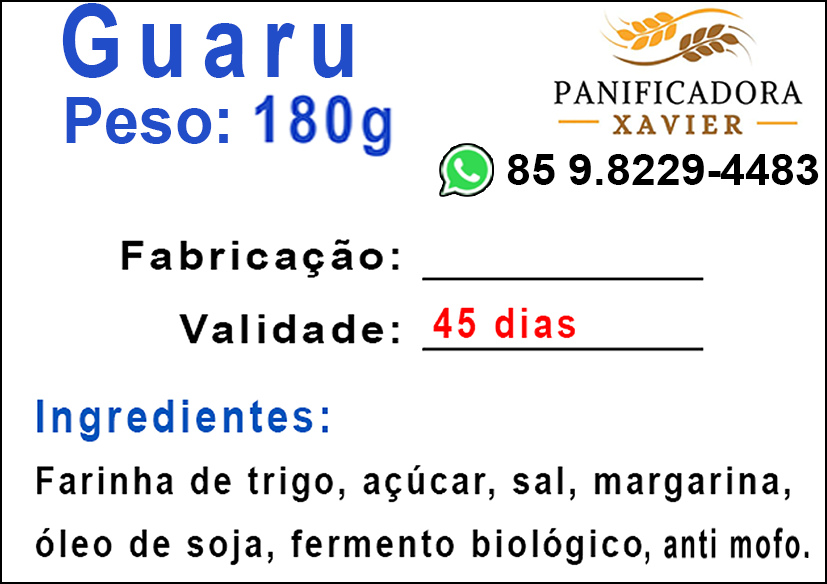
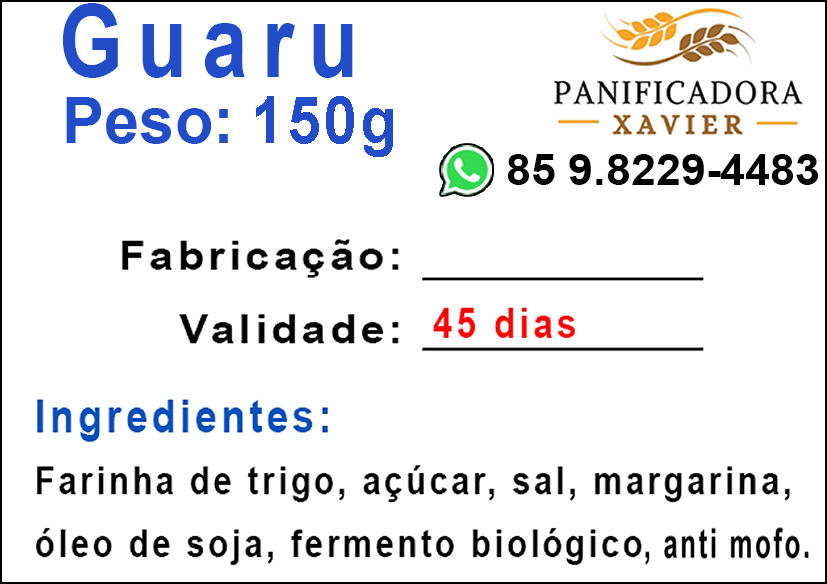
atualização no peso de alguns produtos

Changed region(s): [[0.3023, 0.1541, 0.4837, 0.2774]]

diff --git a/index.html b/index.html
@@ -51,11 +51,11 @@
                                             <option value="mole">Bolacha Mole 200g</option>
                                             <option value="pastel">Bolacha Pastel 220g</option>
                                             <option value="seca">Bolacha Seca 180g</option>
-                                            <option value="guaru">Guaru 180g</option>
+                                            <option value="guaru">Guaru 150g</option>
                                             <option value="maluca">Maluca 300g</option>
                                             <option value="rosca-1">Rosca 1 - 150g</option>
                                             <option value="rosca-2">Rosca 2 - 180g</option>
-                                            <option value="rosca-3">Rosca Mole - 200g</option>
+                                            <option value="rosca-3">Rosca Mole - 150g</option>
                                             <option value="pao-bola">Pão Bola - 300g</option>
                                             <option value="pao-2">Pão de Coco - 200g</option>
                                             <option value="pao-4">Pão de Coco - 400g</option>
